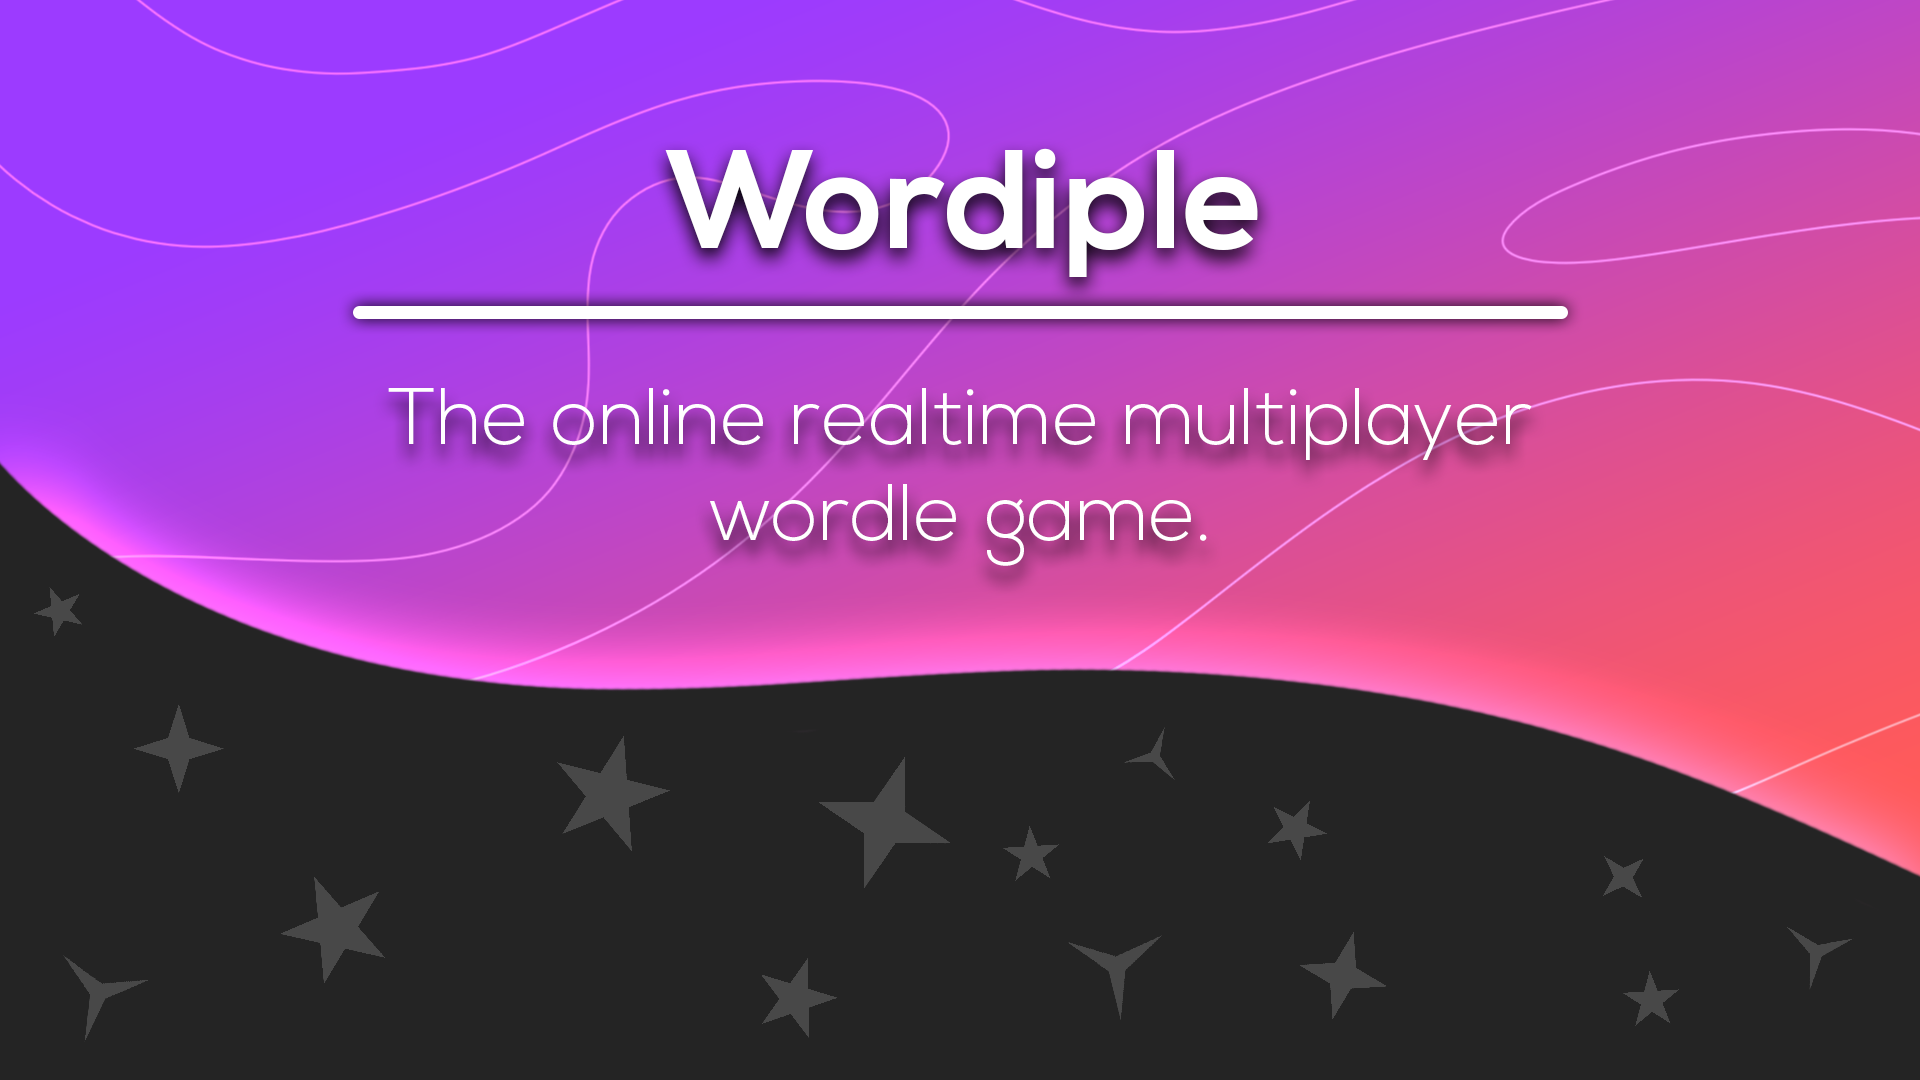
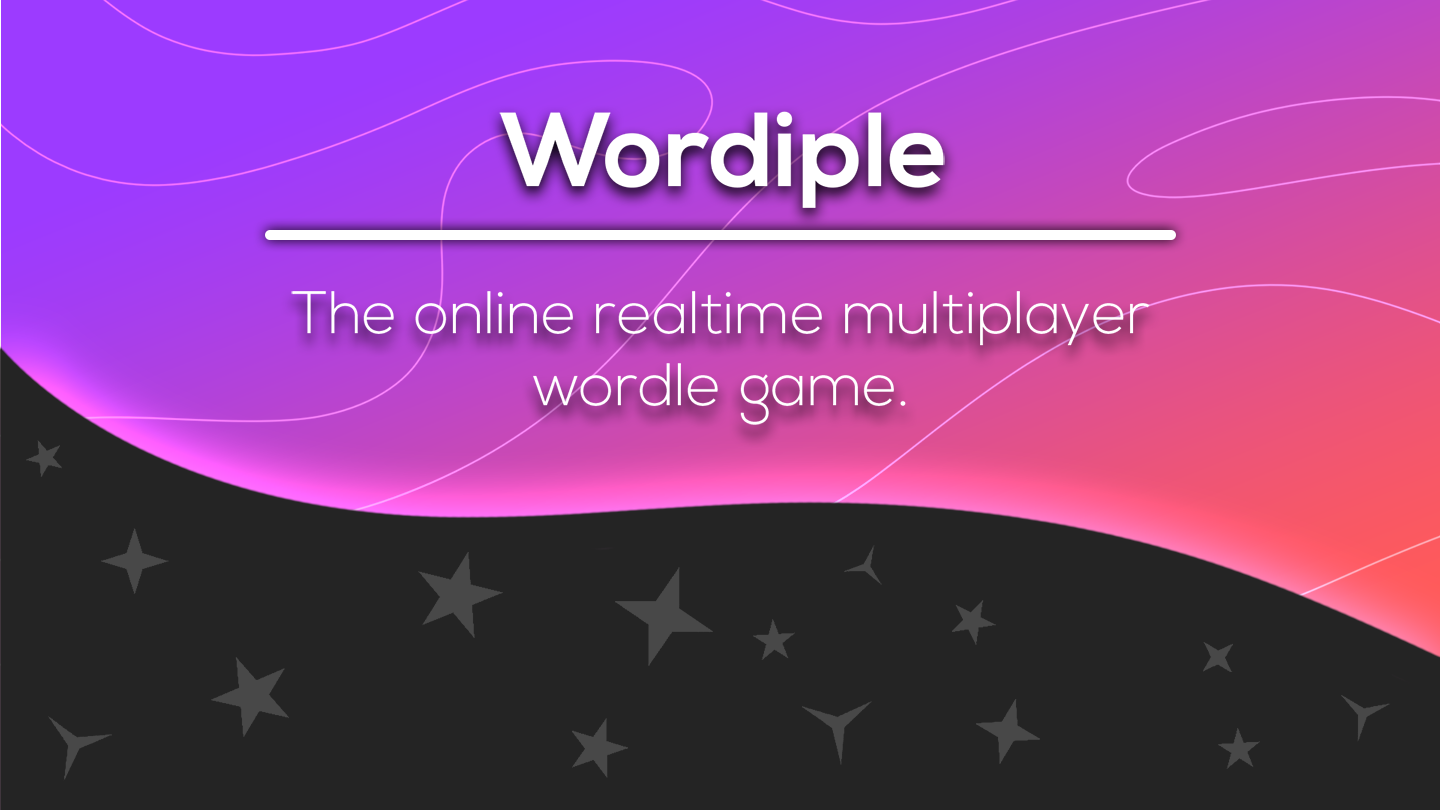
Background stretch fixed

diff --git a/Wordiple-Client/src/main/resources/style.css b/Wordiple-Client/src/main/resources/style.css
@@ -8,8 +8,6 @@
 
 .mainscreen {
     -fx-background-image: url("./mainscreen.png");
-    -fx-background-repeat: no-repeat;
-    -fx-background-size: cover;
 }
 
 .text-field-1 {

diff --git a/Wordiple-Client/src/main/java/me/logicologist/wordiple/client/manager/GUIManager.java b/Wordiple-Client/src/main/java/me/logicologist/wordiple/client/manager/GUIManager.java
@@ -20,11 +20,10 @@ public class GUIManager extends Application {
         this.stage = stage;
 
         stage.setTitle("Wordiple");
+        stage.setResizable(false);
 
-        stage.setMaxHeight(1080);
-        stage.setMaxWidth(1920);
-        stage.setHeight(1080);
-        stage.setWidth(1920);
+        stage.setHeight(810);
+        stage.setWidth(1440);
 
         showMainScreen(false);
 
@@ -32,6 +31,7 @@ public class GUIManager extends Application {
     }
 
     public void showMainScreen(boolean fadeIn) {
+        System.out.println(stage.getWidth() + ", " + stage.getHeight());
         try {
             FXMLLoader fxmlLoader = new FXMLLoader(getClass().getResource("/mainscreen.fxml"));
             stage.setScene(new Scene(fxmlLoader.load()));
